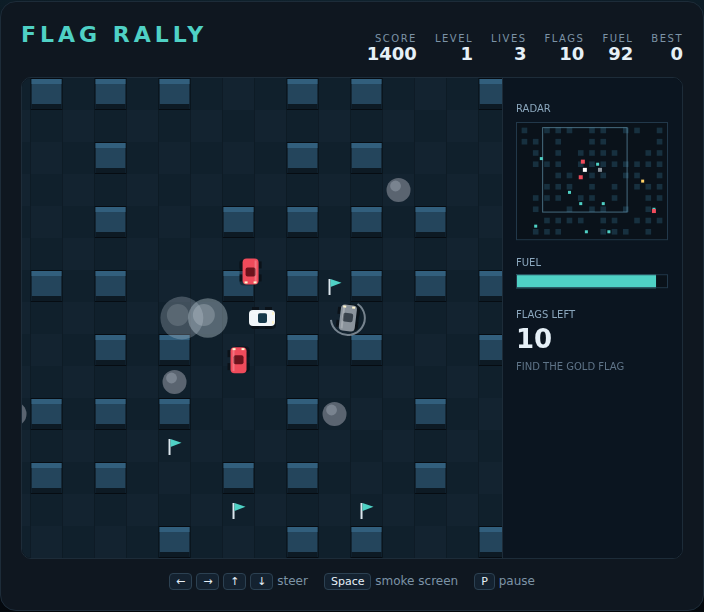
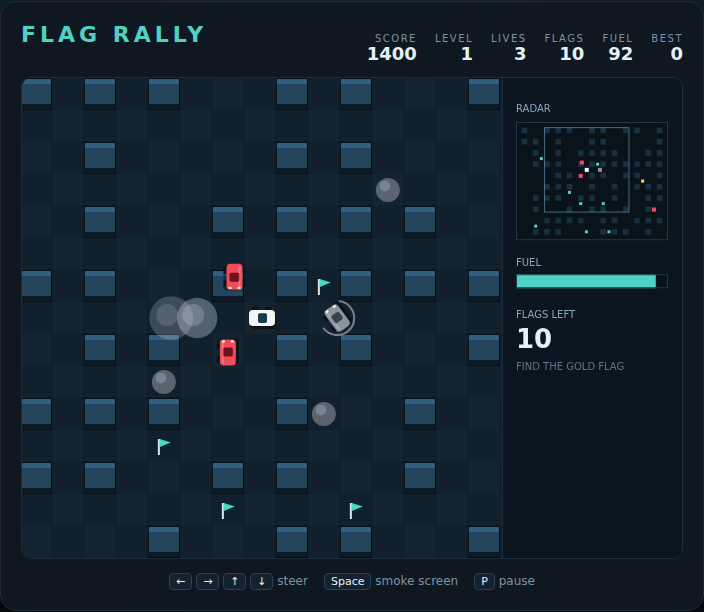
Never let boulders seal a Flag Rally flag off
Sweeping 200 seed/level combinations showed ~1.5% of courses put enough
boulders around a flag that it could only be driven to by wrecking
first, which makes the level unwinnable.

Boulders are now laid one at a time and a candidate cell is skipped if
it would leave any flag unreachable from the start without crossing a
boulder. Adds a spec covering the same 200 combinations.

Claude-Session: https://claude.ai/code/session_013zTVrYhNNVgpfTHWjRN979

diff --git a/FlagRally/tests/flagrally.spec.js b/FlagRally/tests/flagrally.spec.js
@@ -888,6 +888,39 @@ test.describe('Flag Rally', () => {
             expect(s.state).toBe('crashed');
         });
 
+        // Boulders wreck the car, so a flag ringed by boulders would be an
+        // uncollectable flag — and an unwinnable level. Every flag must be
+        // reachable from the start without driving over one.
+        test('boulders never wall a flag off', async ({ page }) => {
+            const blocked = await page.evaluate(() => {
+                const bad = [];
+                for (let s = 1; s <= 40; s++) {
+                    setSeed(s);
+                    startGame();
+                    for (let lv = 1; lv <= 5; lv++) {
+                        const rockCells = new Set(rocks.map((k) => k.c + ',' + k.r));
+                        const seen = new Set([SPAWN.c + ',' + SPAWN.r]);
+                        const queue = [[SPAWN.c, SPAWN.r]];
+                        while (queue.length) {
+                            const [c, r] = queue.shift();
+                            for (const [dc, dr] of [[1, 0], [-1, 0], [0, 1], [0, -1]]) {
+                                const nc = c + dc, nr = r + dr, key = nc + ',' + nr;
+                                if (!isOpen(nc, nr) || seen.has(key) || rockCells.has(key)) continue;
+                                seen.add(key);
+                                queue.push([nc, nr]);
+                            }
+                        }
+                        const walled = flags.filter((f) => !seen.has(f.c + ',' + f.r)).length;
+                        if (walled) bad.push({ seed: s, level: lv, walled });
+                        for (const f of flags) f.taken = true;
+                        nextLevel();
+                    }
+                }
+                return bad;
+            });
+            expect(blocked).toEqual([]);
+        });
+
         test('boulders never sit on the spawn cell', async ({ page }) => {
             await startQuiet(page);
             const onSpawn = await page.evaluate(

diff --git a/FlagRally/game.js b/FlagRally/game.js
@@ -208,6 +208,26 @@ function placeFlags() {
     if (flags.length) flags[Math.floor(rng() * flags.length)].special = true;
 }
 
+// Can every flag still be driven to from the start without crossing one of
+// `blocked` (the boulder cells)? A boulder wrecks the car, so a flag ringed by
+// boulders would be an uncollectable flag — and an unwinnable level.
+function flagsReachable(blocked) {
+    const seen = new Set([cellKey(SPAWN.c, SPAWN.r)]);
+    const queue = [[SPAWN.c, SPAWN.r]];
+    while (queue.length) {
+        const [c, r] = queue.shift();
+        for (const d of DIRS) {
+            const nc = c + d.x;
+            const nr = r + d.y;
+            const key = cellKey(nc, nr);
+            if (!isOpen(nc, nr) || seen.has(key) || blocked.has(key)) continue;
+            seen.add(key);
+            queue.push([nc, nr]);
+        }
+    }
+    return flags.every((f) => seen.has(cellKey(f.c, f.r)));
+}
+
 function placeRocks() {
     const taken = new Set(flags.map((f) => cellKey(f.c, f.r)));
     taken.add(cellKey(SPAWN.c, SPAWN.r));
@@ -221,12 +241,20 @@ function placeRocks() {
             (cell) => !taken.has(cellKey(cell.c, cell.r)) && manhattan(cell, SPAWN) >= 3
         )
     );
-    rocks = pool.slice(0, count).map((cell) => ({
-        c: cell.c,
-        r: cell.r,
-        x: centerX(cell.c),
-        y: centerY(cell.r),
-    }));
+
+    // Lay boulders one at a time, skipping any that would seal a flag off.
+    rocks = [];
+    const blocked = new Set();
+    for (const cell of pool) {
+        if (rocks.length >= count) break;
+        const key = cellKey(cell.c, cell.r);
+        blocked.add(key);
+        if (flagsReachable(blocked)) {
+            rocks.push({ c: cell.c, r: cell.r, x: centerX(cell.c), y: centerY(cell.r) });
+        } else {
+            blocked.delete(key);
+        }
+    }
 }
 
 function enemySpeed() {

diff --git a/FlagRally/DESIGN.md b/FlagRally/DESIGN.md
@@ -88,6 +88,18 @@ Collecting all ten clears the level. The clear bonus is
 a slow one. The next level rebuilds the course from a new seed with one more
 rival (capped at 6) and two more boulders (capped at 14), and refills the tank.
 
+### Boulders
+
+Boulders are static hazards on open cells: touching one wrecks you exactly like
+a rival does. They are laid one at a time, and a candidate cell is skipped if
+putting a boulder there would leave any flag unreachable from the start without
+crossing a boulder. Without that check roughly 1.5% of generated courses (found
+by sweeping 200 seed/level combinations) sealed a flag behind boulders, which
+made the level unwinnable — the flag could only be driven to by wrecking first.
+
+Boulders are hazards for the player only. Rivals ignore them, which keeps the
+chase AI to one rule and means you cannot use a boulder as cover.
+
 ### Rivals
 
 Rival cars move cell to cell. On arriving at a cell centre each one picks the
@@ -176,7 +188,7 @@ Structure of `game.js`:
 
 1. constants (grid, car, rivals, smoke, fuel, scoring)
 2. seeded RNG and level generation (`setSeed`, `buildMaze`, `placeFlags`,
-   `placeRocks`)
+   `placeRocks`, `flagsReachable`)
 3. grid helpers (`isOpen`, `colOf`, `rowOf`, `centerX`, `centerY`, `nearestOpen`)
 4. state and level lifecycle (`startGame`, `buildLevel`, `resetCars`,
    `loseLife`, `nextLevel`, `endGame`)
@@ -202,7 +214,8 @@ Other choices made where the brief was open, always taking the simpler reading:
 - **A puff of smoke spins at most one rival**, then vanishes.
 - **A wreck does not reset the level**, only the car positions. Collected flags
   stay collected.
-- **Boulders are static.** They never move, spawn, or fall.
+- **Boulders are static, and only the player can hit them.** They never move,
+  spawn or fall, and rivals drive straight over them.
 - **The course is regenerated from a new seed each level** rather than shipping
   hand-authored levels, so difficulty comes from rival count, rival speed and
   boulder count.

diff --git a/FlagRally/README.md b/FlagRally/README.md
@@ -26,7 +26,8 @@ rival, and where you are — use it to plan a route to flags you cannot see.
 - **The gold "S" flag** is the special flag. Once you have it, every flag you
   collect afterwards on that level is worth 200.
 - **Rival cars** steer towards you constantly. Touching one wrecks your car and
-  costs a life. So does hitting a boulder.
+  costs a life. So does hitting a boulder — though boulders are never laid in a
+  way that seals a flag off, so every flag can always be reached cleanly.
 - **Smoke screen** (`Space`) drops a puff of exhaust behind you for 6 fuel. A
   rival that drives into it spins out for three seconds — 200 points — and is
   harmless and stationary while it spins, so you can drive straight through it.
